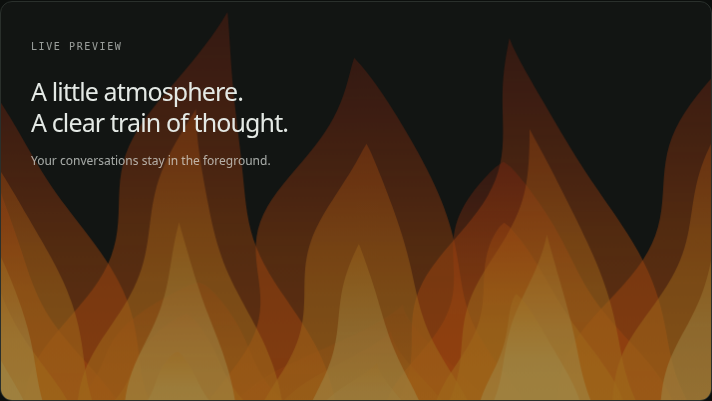
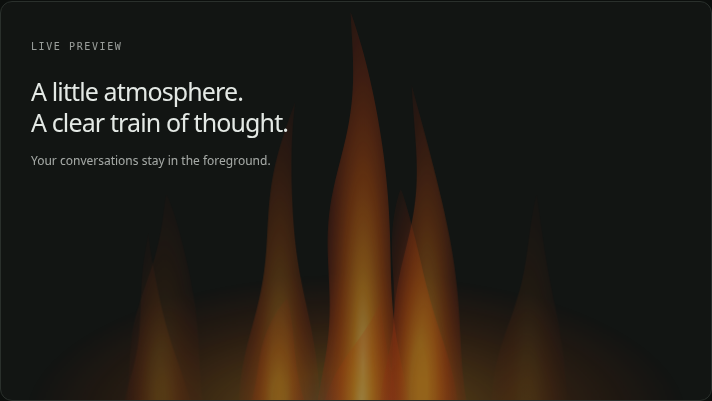
Focus Fire heat at its core and correct flame proportions

diff --git a/tests/fire.test.ts b/tests/fire.test.ts
@@ -1,10 +1,10 @@
 import { expect, it } from "vitest"
 import { createScene } from "../src/scenes"
-import { fireFlame, fireLift, firePalette, firePulse, FIRE_FLAME_COUNT } from "../src/scenes-fire"
+import { fireFlame, fireLift, firePalette, firePulse, fireWidthScale, FIRE_FLAME_COUNT } from "../src/scenes-fire"
 import { drawing } from "./environment"
 
 const context = drawing as unknown as CanvasRenderingContext2D
-const gradients = () => drawing.createLinearGradient.mock.results.map(result => result.value.addColorStop.mock.calls)
+const gradients = () => drawing.createRadialGradient.mock.results.map(result => result.value.addColorStop.mock.calls)
 
 it("Fire flames are born, grow, narrow/recede, and fade before renewing instead of perpetual grass-like sway", () => {
   expect(FIRE_FLAME_COUNT).toBe(10)
@@ -13,7 +13,8 @@ it("Fire flames are born, grow, narrow/recede, and fade before renewing instead 
     const small = firePulse(flame, birth + initial.period * 0.05)
     const large = firePulse(flame, birth + initial.period * 0.55)
     const receding = firePulse(flame, birth + initial.period * 0.9)
-    expect(large.height - small.height).toBeGreaterThan(0.6)
+    expect(large.height - small.height).toBeGreaterThan(0.3)
+    if (flame % 5 === 2) expect(large.height - small.height).toBeGreaterThan(0.7)
     expect(receding.height).toBeLessThan(large.height * 0.5)
     expect(receding.width).toBeLessThan(large.width)
     expect(firePulse(flame, birth).opacity).toBeCloseTo(0, 10)
@@ -22,7 +23,7 @@ it("Fire flames are born, grow, narrow/recede, and fade before renewing instead 
     const tallShape = fireFlame(flame, birth + initial.period * 0.55)
     expect(youngShape[0].y).toBe(1.04)
     expect(tallShape[0].y).toBe(1.04)
-    expect(youngShape.at(-1)!.y - tallShape.at(-1)!.y).toBeGreaterThan(0.6)
+    expect(youngShape.at(-1)!.y - tallShape.at(-1)!.y).toBeGreaterThan(0.3)
     expect(tallShape.at(-1)!.left).toBe(tallShape.at(-1)!.right)
   }
 })
@@ -38,25 +39,28 @@ it("Fire lifetimes are staggered and renew smoothly, with no synchronized fade o
   }
 })
 
-it("Fire carries deformation upward and remains broad while its flame tips grow and recede", () => {
+it("Fire carries deformation upward and has a taller, stronger central source than its quiet edges", () => {
   for (const height of [0.1, 0.4, 0.8]) expect(fireLift(height + 0.7 / 8 * 2, 7)).toBeCloseTo(fireLift(height, 5), 10)
+  const peak = (flame: number) => {
+    const pulse = firePulse(flame, 0), birth = (1 - pulse.age) * pulse.period
+    return firePulse(flame, birth + pulse.period * 0.55)
+  }
+  expect(peak(2).height).toBeGreaterThan(peak(0).height * 1.7)
+  expect(peak(2).heat).toBeGreaterThan(peak(0).heat * 3)
+  expect(peak(2).heat).toBeGreaterThan(peak(1).heat)
   for (const time of [0, 2, 4, 6, 8, 10, 14, 20, 30, 60, 120, 240]) {
-    const shapes = Array.from({ length: FIRE_FLAME_COUNT }, (_, flame) => fireFlame(flame, time))
-    let coverage = 0
-    for (let row = 0; row < 100; row++) {
-      const y = (row + 0.5) / 100
-      const spans = shapes.flatMap(shape => {
-        const index = shape.findIndex(section => section.y <= y)
-        if (index <= 0) return []
-        const a = shape[index - 1], b = shape[index], t = (a.y - y) / (a.y - b.y)
-        return [{ left: Math.max(0, a.left + (b.left - a.left) * t), right: Math.min(1, a.right + (b.right - a.right) * t) }]
-      }).sort((a, b) => a.left - b.left)
-      let end = 0
-      for (const span of spans) { coverage += Math.max(0, span.right - Math.max(end, span.left)) / 100; end = Math.max(end, span.right) }
-    }
-    expect(coverage).toBeGreaterThan(0.4)
-    expect(coverage).toBeLessThan(0.95)
-    expect(Math.min(...shapes.map(shape => shape.at(-1)!.y))).toBeLessThan(0.35)
+    expect(Math.min(...Array.from({ length: FIRE_FLAME_COUNT }, (_, flame) => fireFlame(flame, time).at(-1)!.y))).toBeLessThan(0.35)
+  }
+})
+
+it("Fire keeps a tall physical width/height ratio in landscape and portrait, not width-stretched leaves", () => {
+  const pulse = firePulse(2, 0), peak = (1 - pulse.age + 0.55) * pulse.period
+  for (const [width, height] of [[1200, 600], [900, 540], [390, 844], [1, 1]]) {
+    const sections = fireFlame(2, peak, fireWidthScale(width, height))
+    const bodyWidth = (sections[0].right - sections[0].left) * width
+    const bodyHeight = (sections[0].y - sections.at(-1)!.y) * height
+    expect(bodyWidth / bodyHeight).toBeGreaterThan(0.15)
+    expect(bodyWidth / bodyHeight).toBeLessThan(0.3)
   }
 })
 
@@ -73,22 +77,27 @@ it("Fire uses bounded vector geometry and preserves paused age/shape across them
   const scene = createScene("fire")
   scene.resize(800, 600); scene.draw(context, 0.1, 1, "dark")
   const dark = gradients(), contour = drawing.lineTo.mock.calls.map(call => [...call])
-  expect(dark).toHaveLength(30)
-  expect(drawing.fill).toHaveBeenCalledTimes(30)
+  expect(dark).toHaveLength(11) // One shared hearth and ten volume-shaded tongues.
+  expect(drawing.fill).toHaveBeenCalledTimes(10)
   expect(drawing.drawImage).not.toHaveBeenCalled()
-  expect(drawing.fillRect).not.toHaveBeenCalled()
-  drawing.createLinearGradient.mockClear(); drawing.lineTo.mockClear()
+  expect(drawing.fillRect).toHaveBeenCalledTimes(1)
+  expect(drawing.createLinearGradient).not.toHaveBeenCalled()
+  const coreStops = dark[3] // Hearth, outer flame, side flame, central flame.
+  expect(coreStops[0][1]).toContain("255, 214, 109")
+  expect(coreStops.at(-1)![1]).toMatch(/, 0\)$/)
+  expect(coreStops.map(([stop]: [number, string]) => stop)).toEqual([0, 0.18, 0.42, 0.72, 1])
+  drawing.createRadialGradient.mockClear(); drawing.lineTo.mockClear()
   scene.draw(context, 0, 1, "dark")
   expect(gradients()).toEqual(dark)
   expect(drawing.lineTo.mock.calls).toEqual(contour)
-  drawing.createLinearGradient.mockClear(); scene.draw(context, 0, 1, "light")
+  drawing.createRadialGradient.mockClear(); scene.draw(context, 0, 1, "light")
   expect(gradients()).not.toEqual(dark)
-  drawing.createLinearGradient.mockClear(); scene.draw(context, 0, 1, "dark")
+  drawing.createRadialGradient.mockClear(); scene.draw(context, 0, 1, "dark")
   expect(gradients()).toEqual(dark)
   for (const [width, height] of [[1200, 600], [390, 844], [7680, 4320], [1, 1]]) {
     drawing.lineTo.mockClear(); scene.resize(width, height); scene.draw(context, 0, 1)
-    expect(drawing.lineTo).toHaveBeenCalledTimes(2880)
-    expect(drawing.lineTo.mock.calls.every(([x, y]) => Number.isFinite(x) && x >= -width * 0.4 && x <= width * 1.4 && y >= 0 && y <= height * 1.04)).toBe(true)
+    expect(drawing.lineTo).toHaveBeenCalledTimes(960)
+    expect(drawing.lineTo.mock.calls.every(([x, y]) => Number.isFinite(x) && Math.abs(x) < 3 && y >= -1.0000001 && y <= 0.0000001)).toBe(true)
   }
   scene.resize(800, 600); drawing.lineTo.mockClear(); scene.draw(context, 0, 1, "dark")
   expect(drawing.lineTo.mock.calls).toEqual(contour)

diff --git a/src/scenes-fire.ts b/src/scenes-fire.ts
@@ -2,10 +2,11 @@ import { AmbientScene, type Appearance } from "./scene"
 
 const steps = 48
 export const FIRE_FLAME_COUNT = 10
-const heights = [0.94, 1.015, 0.90, 0.98, 0.99]
+const heights = [0.58, 0.79, 1.015, 0.86, 0.56]
+const heat = [0.22, 0.58, 1, 0.75, 0.19]
+const roots = [0.2, 0.37, 0.5, 0.61, 0.78]
 const periods = [10.4, 12.7, 11.3, 14.6, 9.8]
 const offsets = [0.18, 0.52, 0.34, 0.61, 0.43]
-const layers = [{ height: 1, width: 1 }, { height: 0.76, width: 0.66 }, { height: 0.48, width: 0.36 }]
 const smooth = (value: number) => { const t = Math.max(0, Math.min(1, value)); return t * t * (3 - 2 * t) }
 
 /** Fixed flame colors, never a hue wheel: red edges, orange bodies, yellow cores. */
@@ -32,23 +33,30 @@ export function firePulse(index: number, time: number) {
   return {
     age, cycle, period: periods[origin],
     height: 0.18 + (heights[origin] - 0.18) * growth * recession,
-    width: 0.26 * (0.6 + growth * 0.4) * (1 - age * 0.25),
+    width: 0.14 * (0.8 + heat[origin] * 0.2) * (0.6 + growth * 0.4) * (1 - age * 0.25),
     opacity: smooth(age / 0.12) * smooth((1 - age) / 0.18),
-    root: -0.02 + origin * 0.26 + Math.sin(cycle * 2.7 + index) * 0.015,
+    heat: heat[origin],
+    root: roots[origin] + Math.sin(cycle * 2.7 + index) * 0.012,
     curl: Math.sin(index * 1.93 + cycle * 1.3) * 0.045,
   }
 }
 
+/** Use physical height for width, with a bound for exceptionally narrow viewports. */
+export function fireWidthScale(width: number, height: number) {
+  return Math.min(2, height * 0.95 / Math.max(1, width))
+}
+
 /** The base stays put while height, width, tip shape, and brightness evolve over each life. */
-export function fireFlame(index: number, time: number, layer = 0): FlameSection[] {
-  const shape = layers[layer], phase = index * 1.93, pulse = firePulse(index, time)
+export function fireFlame(index: number, time: number, widthScale = 1): FlameSection[] {
+  const phase = index * 1.93, pulse = firePulse(index, time)
+  const root = 0.5 + (pulse.root - 0.5) * Math.min(1, widthScale * 1.6 / 0.95)
   return Array.from({ length: steps + 1 }, (_, step) => {
-    const progress = step / steps, rise = progress * shape.height
+    const progress = step / steps, rise = progress
     const y = 1.04 - pulse.height * rise
     const flow = fireLift(1.04 - y, time, phase)
-    const center = pulse.root + pulse.curl * rise ** 2
-      + Math.sin((1.04 - y) * 6 - time * 0.5 + phase) * rise * 0.025
-    const width = pulse.width * shape.width * (1 - progress) ** (0.68 + pulse.age * 0.6)
+    const center = root + (pulse.curl * rise ** 2
+      + Math.sin((1.04 - y) * 6 - time * 0.5 + phase) * rise * 0.025) * widthScale
+    const width = pulse.width * widthScale * (1 - progress) ** (0.68 + pulse.age * 0.6)
       * (1 + flow * Math.sin(progress * Math.PI) * 0.22)
     const asymmetry = flow * Math.sin(progress * Math.PI) * 0.08
     return { y, left: center - width * (1 + asymmetry), right: center + width * (1 - asymmetry) }
@@ -58,22 +66,45 @@ export function fireFlame(index: number, time: number, layer = 0): FlameSection[
 export class Fire extends AmbientScene {
   protected paint(ctx: CanvasRenderingContext2D) {
     const palette = firePalette(this.appearance)
-    // Independent growing/receding tongues, not perpetual wind-blown leaves.
-    // Source-over preserves reds/oranges instead of bleaching overlapping flames.
+    const color = (index: number, alpha: number) => `rgba(${palette[index].join(", ")}, ${alpha})`
+    const widthScale = fireWidthScale(this.width, this.height)
     ctx.globalCompositeOperation = "source-over"
-    for (let layer = 0; layer < layers.length; layer++) for (let flame = 0; flame < FIRE_FLAME_COUNT; flame++) {
-      const sections = fireFlame(flame, this.time, layer), tip = sections.at(-1)!
-      ctx.globalAlpha = firePulse(flame, this.time).opacity
-      const gradient = ctx.createLinearGradient(0, tip.y * this.height, 0, this.height * 1.04)
-      const color = (index: number, alpha: number) => `rgba(${palette[index].join(", ")}, ${alpha})`
-      gradient.addColorStop(0, color(layer, layer === 0 ? 0.28 : 0.38))
-      gradient.addColorStop(0.55, color(layer + 1, 0.48))
-      gradient.addColorStop(1, color(layer + 1, 0.58))
+
+    // A shared, low hearth glow joins the tongues into one fire. It has a hot
+    // center and fades both sideways and upward, never an even horizontal stripe.
+    ctx.save()
+    ctx.globalAlpha = 1
+    ctx.translate(this.width * 0.5, this.height * 1.04)
+    ctx.scale(this.width * 0.47, this.height * 0.36)
+    const hearth = ctx.createRadialGradient(0, 0, 0, 0, 0, 1)
+    hearth.addColorStop(0, color(3, 0.45)); hearth.addColorStop(0.32, color(2, 0.4))
+    hearth.addColorStop(0.68, color(1, 0.16)); hearth.addColorStop(1, color(0, 0))
+    ctx.fillStyle = hearth; ctx.fillRect(-1, -1, 2, 2)
+    ctx.restore()
+
+    for (let flame = 0; flame < FIRE_FLAME_COUNT; flame++) {
+      const pulse = firePulse(flame, this.time), sections = fireFlame(flame, this.time, widthScale)
+      const rootX = (sections[0].left + sections[0].right) / 2 * this.width, baseY = this.height * 1.04
+      const radiusX = pulse.width * widthScale * this.width, radiusY = pulse.height * this.height
+      ctx.save()
+      ctx.translate(rootX, baseY); ctx.scale(radiusX, radiusY)
+      ctx.globalAlpha = pulse.opacity * pulse.heat
+      // Elliptical volume shading: hot at the lower center, orange outward,
+      // then red and transparent at the sides/tip. No nested leaf-shaped fills.
+      const gradient = ctx.createRadialGradient(0, -0.12, 0, 0, -0.12, 1.12)
+      gradient.addColorStop(0, color(pulse.heat > 0.9 ? 3 : 2, 0.9))
+      gradient.addColorStop(0.18, color(2, 0.78))
+      gradient.addColorStop(0.42, color(1, 0.57))
+      gradient.addColorStop(0.72, color(0, 0.26))
+      gradient.addColorStop(1, color(0, 0))
       ctx.fillStyle = gradient
-      ctx.beginPath(); ctx.moveTo(sections[0].left * this.width, sections[0].y * this.height)
-      for (let step = 1; step <= steps; step++) ctx.lineTo(sections[step].left * this.width, sections[step].y * this.height)
-      for (let step = steps - 1; step >= 0; step--) ctx.lineTo(sections[step].right * this.width, sections[step].y * this.height)
+      const x = (value: number) => (value * this.width - rootX) / radiusX
+      const y = (value: number) => (value * this.height - baseY) / radiusY
+      ctx.beginPath(); ctx.moveTo(x(sections[0].left), y(sections[0].y))
+      for (let step = 1; step <= steps; step++) ctx.lineTo(x(sections[step].left), y(sections[step].y))
+      for (let step = steps - 1; step >= 0; step--) ctx.lineTo(x(sections[step].right), y(sections[step].y))
       ctx.closePath(); ctx.fill()
+      ctx.restore()
     }
   }
 }

diff --git a/tests/environment.ts b/tests/environment.ts
@@ -2,7 +2,7 @@ import { beforeEach, vi } from "vitest"
 
 export const drawing = {
   clearRect: vi.fn(), fillText: vi.fn(), setTransform: vi.fn(), drawImage: vi.fn(),
-  save: vi.fn(), restore: vi.fn(), fillRect: vi.fn(), strokeRect: vi.fn(), beginPath: vi.fn(), closePath: vi.fn(),
+  save: vi.fn(), restore: vi.fn(), translate: vi.fn(), scale: vi.fn(), fillRect: vi.fn(), strokeRect: vi.fn(), beginPath: vi.fn(), closePath: vi.fn(),
   arc: vi.fn(), ellipse: vi.fn(), fill: vi.fn(), moveTo: vi.fn(), lineTo: vi.fn(), stroke: vi.fn(),
   createLinearGradient: vi.fn(() => ({ addColorStop: vi.fn() })),
   createRadialGradient: vi.fn(() => ({ addColorStop: vi.fn() })),

diff --git a/README.md b/README.md
@@ -41,7 +41,7 @@ A small collection of animated atmospheres and local image backgrounds, behind c
 | **Tremor** | Seismograph-style vibrations alternating between bursts and quieter intervals |
 | **Polygraph** | Three independently wavering, instrument-style traces |
 | **Rainbow** | One solid background color following a timestamp-synchronized hue cycle |
-| **Fire** | Warm flames growing, stretching upward, narrowing, receding, and renewing |
+| **Fire** | Slender growing/receding flames with a hot central core and fading red edges |
 | **Elastic** | Large architectural blocks slowly expanding, subdividing, and making room |
 | **Grass** | Broad green blades keeping their height while swaying gently in the wind |
 | **Image** | A still or animated local image, displayed as-is |
@@ -91,14 +91,19 @@ and reduced-motion controls. Resizing or switching appearance while paused prese
 
 | Dark theme | Light theme |
 | --- | --- |
-| ![Tall, tapering red and orange flame tongues with yellow cores behind readable text in dark mode](docs/images/fire-dark.png) | ![Warm flame tongues and curling pointed tips behind dark text in light mode](docs/images/fire-light.png) |
+| ![Slender flame tongues with a bright lower core and softer red edges behind readable text in dark mode](docs/images/fire-dark.png) | ![Warm core-focused flames fading toward quiet edges behind dark text in light mode](docs/images/fire-light.png) |
 
 **Fire** has actual growth and recession rather than permanent leaf-like silhouettes: individual tongues emerge at
 the base, grow taller, stretch upward, narrow, recede, and fade before renewing. Five origins each have two overlapping
 generations, with staggered 9.8–14.6-second lifetimes at 1× speed, so the fire stays alive instead of pulsing off together.
-Height and width change independently of the small tip curls. Orange/yellow cores follow the same growth; no entire
-shape is translated up and down. The palette stays **red, orange, and yellow**, with smooth translucent vector gradients
-and no dithering, sparks, rapid flicker, or smoke particles. Flame state and lifetimes freeze while paused or hidden.
+Height and width change independently of the small tip curls; no entire shape is translated up and down.
+
+The origins are unevenly spaced, with taller, brighter tongues near the center and smaller, quieter tongues outside.
+Widths follow the available height rather than stretching with a wide conversation. Each tongue is one smooth,
+elliptically shaded volume: a yellow/orange lower core fades through red to transparent sides and tips, instead of
+nested leaf-shaped color bands. A soft, shared hearth glow joins their bases without making the whole bottom equally
+bright. The palette stays **red, orange, and yellow**, with no dithering, sparks, rapid flicker, or smoke particles.
+Flame state and lifetimes freeze while paused or hidden.
 
 This is stylized, relaxing fire, not a physical combustion simulation. Dark mode uses luminous warm colors; light mode
 uses deeper, ink-like counterparts. It follows OpenCode's appearance setting, including changes while paused, and
@@ -174,7 +179,7 @@ Maze scales the current match immediately, then generates a grid suited to the n
 - Clouds, fireflies, and stars automatically adapt to the app's light or dark appearance. Light mode uses blue-gray mist,
   amber fireflies, and ink-blue stars; the original dark palettes are preserved. Paused wallpapers and gallery thumbnails
   repaint when you switch themes, while uploaded images keep their original colors.
-- Fire uses ten bounded flame tongues at five origins, with overlapping growth/recession lifetimes; Grass keeps five fixed-height wind-blown blades. Both use smooth theme-aware vector gradients without raster textures.
+- Fire uses ten bounded, height-proportioned flame tongues with overlapping lifetimes and hot-core-to-edge volume shading; Grass keeps five fixed-height wind-blown blades. Both use smooth theme-aware vector gradients without raster textures.
 - Elastic draws at most ten architectural slabs with simple vector faces; shared moving boundaries suggest elastic capacity without a network connection or live data.
 - Settings persist across sessions and apply to all workspaces. No model calls, remote image requests, or uploads.
 - Command-palette actions to open settings, hide/show wallpaper, and pause/resume animation.
@@ -369,7 +374,9 @@ Rainbow tests verify a complete hue-wheel cycle, timestamp synchronization acros
 repainting, and catch-up on resume. Browser checks inspect every canvas pixel for a uniform full-area fill and verify
 that navigating between the conversation and remounted settings does not reset its hue.
 Fire checks verify growth/recession lifetimes, staggered renewal without reset pops or synchronized fading, upward
-deformation, fixed warm palettes, bounded geometry, and paused resize/theme restoration. Grass checks verify preserved
+deformation, fixed warm palettes, physical width/height proportions, focal core intensity, bounded geometry, and paused
+resize/theme restoration. Browser checks compare core/edge pixel intensity in wide, short, and portrait layouts in both
+appearances, rather than requiring a uniformly filled horizontal wall. Grass checks verify preserved
 fixed-height sway, green light/dark palettes, static paused frames, and bounded geometry. Browser checks cover both
 wallpapers' motion, coverage, colors over time, theme changes, and reduced motion.
 

diff --git a/AGENTS.md b/AGENTS.md
@@ -11,7 +11,7 @@ Independent Git repository; parent is a workspace, not a monorepo.
 - Thirty-four built-ins. Each owns its motion; do not expose direction controls. Gallery thumbnails are static. Only built-ins have speed controls; uploads display as-is without added movement or effects.
 - Elastic is an original, unofficial Amazon/AWS-inspired architectural abstraction: nine to ten broad interlocking slabs, one amber region, quiet slate/porcelain palettes, shallow depth, and slow shared-boundary expansion/subdivision/rejoining. No logos, dashboards, telemetry, particles, service icons, or external assets. Preserve paused geometry on resize/theme changes.
 - Grass preserves the previous fixed-height Fire geometry and wind-blown motion as a separate wallpaper, recolored in theme-aware green tones. Keep its saved ID distinct from Fire; do not silently change existing selections.
-- Fire uses ten bounded tongues in two staggered generations at five origins: individual flames grow from the base, stretch upward, narrow/recede, fade, and renew smoothly. Never restore perpetual fixed-height grass-like sway. Keep a fixed red/orange/yellow palette with theme-aware translucent vector gradients: no cool color cycling, dithering, raster noise, sparks, or flicker. Respect paused/hidden simulation time. Keep Aurora unchanged.
+- Fire uses ten bounded tongues in two staggered generations at five irregular origins: individual flames grow, stretch upward, narrow/recede, fade, and renew smoothly. Keep height-aware slender proportions, a taller/hotter central source, quiet outer tongues, and elliptical hot-core-to-transparent-edge shading with a shared low hearth glow. Do not restore an evenly bright horizontal wall, nested leaf-shaped fills, or fixed-height grass-like sway. Keep red/orange/yellow theme-aware gradients without cool cycling, dithering, raster noise, sparks, or flicker. Respect paused/hidden time. Keep Aurora unchanged.
 - Rainbow is a single solid full-canvas color, not a spatial gradient or moving shapes. Derive hue from the current timestamp so new timelines/previews stay synchronized instead of restarting at red. It cycles all 360 hue degrees in 180 wall-clock seconds at 1×, with theme-appropriate lightness and shared speed. Still repaints freeze hue for pause/reduced motion/hidden states; resume catches up to the timestamp.
 - Display names are unique single words. Keep stored mode IDs stable when renaming copy; Mist is the soft clouds effect, Clouds is retro, and Image is the upload option.
 - Cardiogram must be a fixed line that spikes in place and rests flat between beats, never a horizontally scrolling waveform. Tremor and Polygraph are distinct procedural instrument-style traces. None reads sensors, typing, conversation content, medical data, or anyone's truthfulness; do not display fabricated measurements or diagnostic/detection claims.

diff --git a/CHANGELOG.md b/CHANGELOG.md
@@ -3,7 +3,14 @@
 Notable changes to Conversation Wallpaper. Releases are available as Git tags;
 the default branch can be installed and updated with the OpenCode CLI.
 
-## Unreleased (0.9.0)
+## Unreleased (0.9.1)
+
+- Give Fire height-aware slender proportions and irregular origins, with taller/brighter central tongues and smaller/quieter outer tongues.
+- Replace nested, vertically colored leaf-like fills with elliptical hot-core-to-edge volume shading and a shared low hearth glow.
+- Preserve growth/recession lifetimes, fixed warm colors, and paused state; add landscape/portrait core-intensity and physical-proportion checks.
+- Refresh Fire and gallery captures only; Grass, Elastic, Aurora, and Rainbow are unchanged.
+
+## Preview (0.9.0)
 
 - Preserve the former fixed-height Fire motion as Grass, a new wallpaper with light/dark green palettes and a separate saved ID.
 - Give Fire staggered flame lifetimes: tongues grow from the base, stretch, narrow/recede, fade, and renew instead of only swaying sideways.
